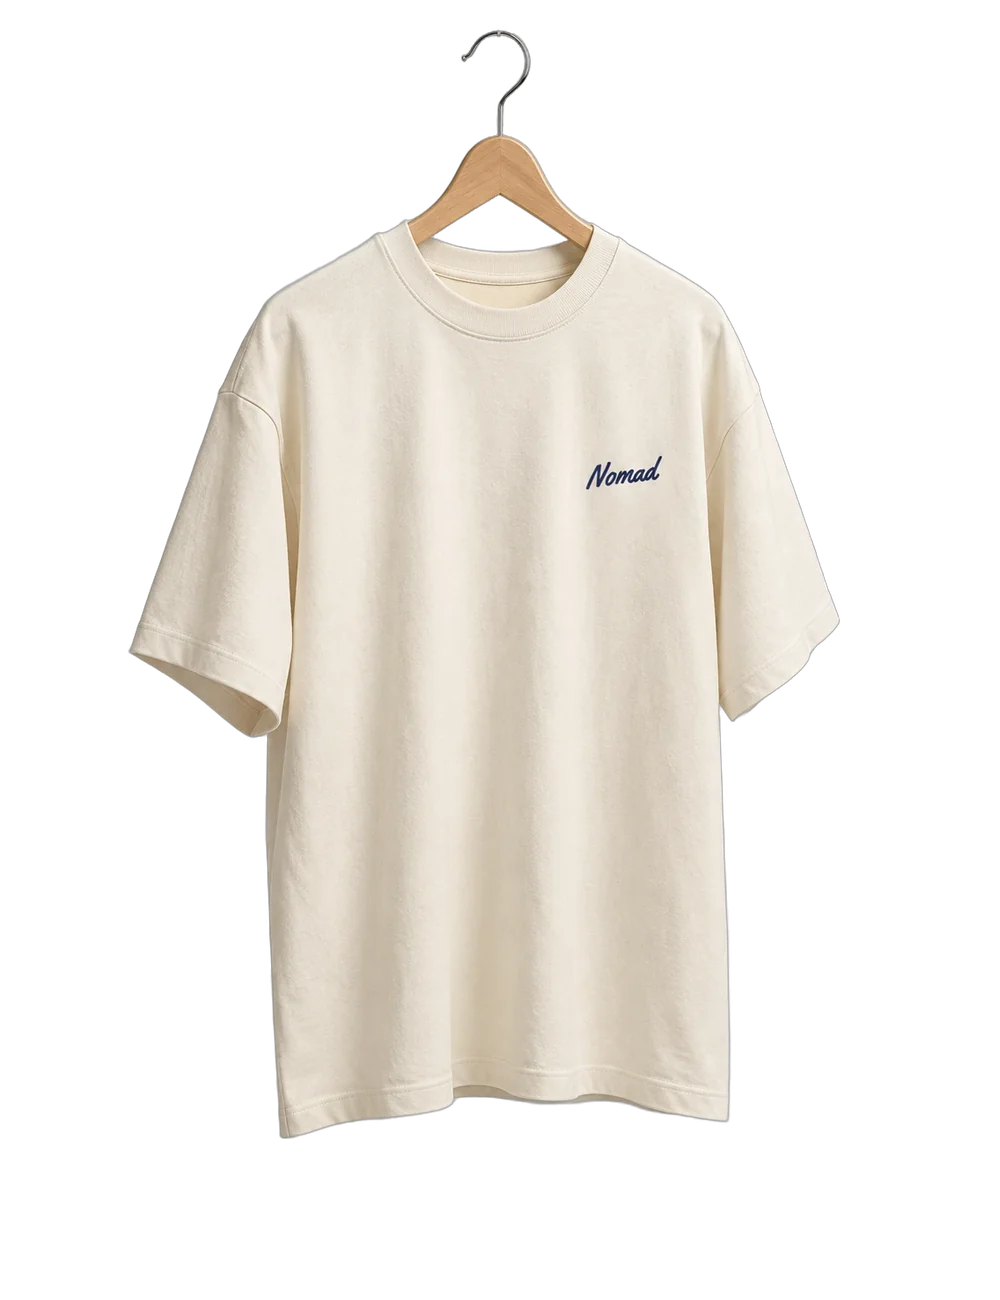
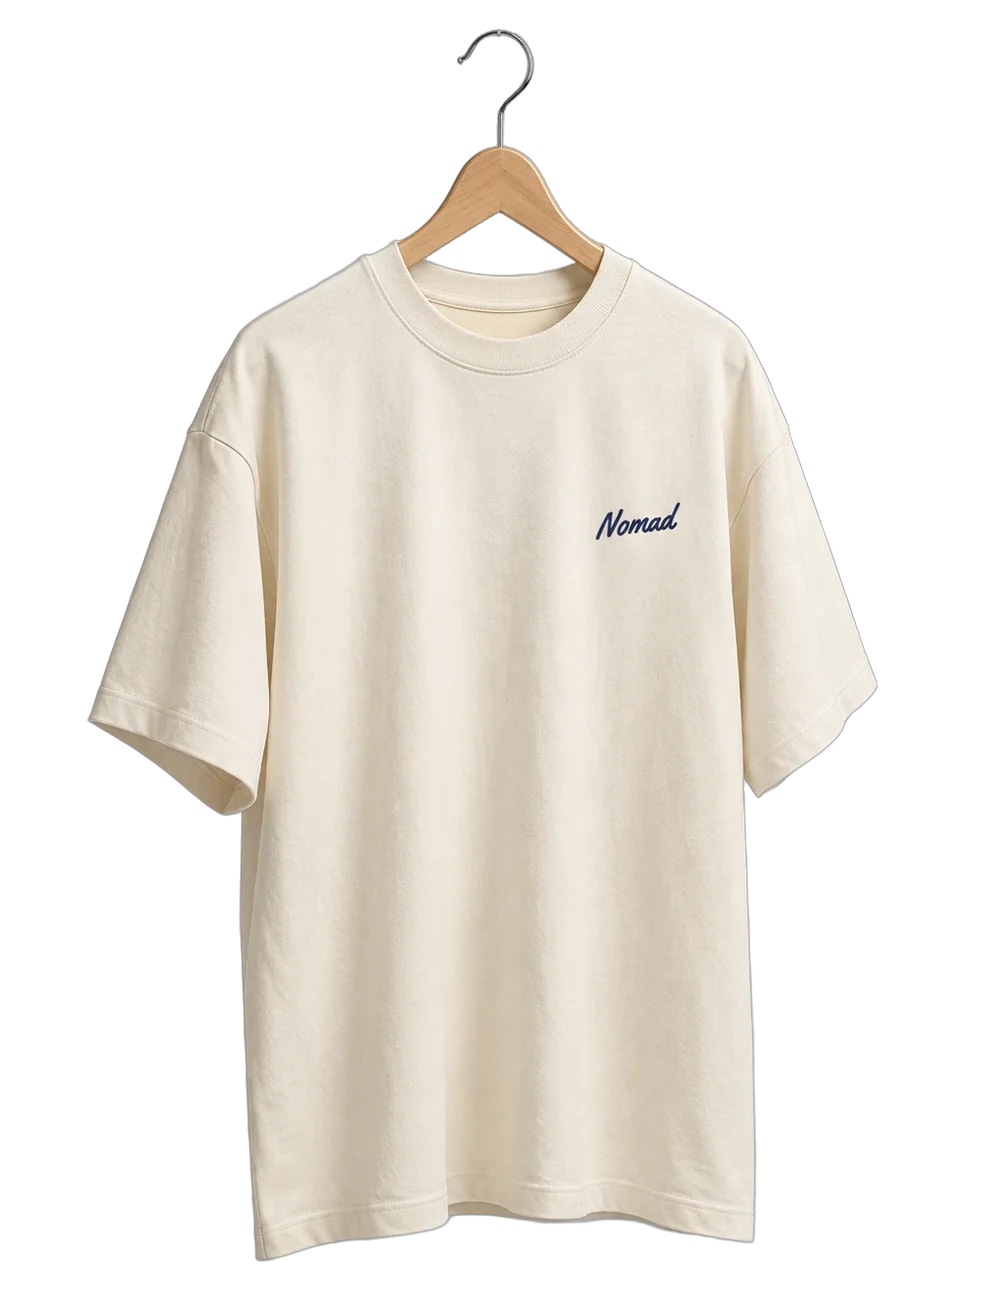
Playera 06 a la misma altura que las demás (sin escala propia)
Claude-Session: https://claude.ai/code/session_01MAyo22dyL4XR5G33iWNR8Q

Changed region(s): [[0.093, 0.2154, 0.868, 0.9846], [0.31, 0.1231, 0.682, 0.2769], [0.465, 0.0, 0.558, 0.1231]]

diff --git a/tools/fotos_web.py b/tools/fotos_web.py
@@ -42,7 +42,7 @@ SAMPLES = {
     "cerca-03-estampado": ("03-white-tee-dollar", 500, 600, 400),
     "cerca-04-estampado": ("04-black-tee-script", 500, 560, 420),
     "cerca-05-estampado": ("05-green-crewneck", 500, 640, 440),
-    "cerca-06-bordado": ("06-cream-tee-nomad", 622, 473, 170),
+    "cerca-06-bordado": ("06-cream-tee-nomad", 636, 522, 190),
     "cerca-03-cuello": ("03-white-tee-dollar", 548, 296, 190),
     "cerca-tela": ("03-white-tee-dollar", 540, 980, 200),
 }
